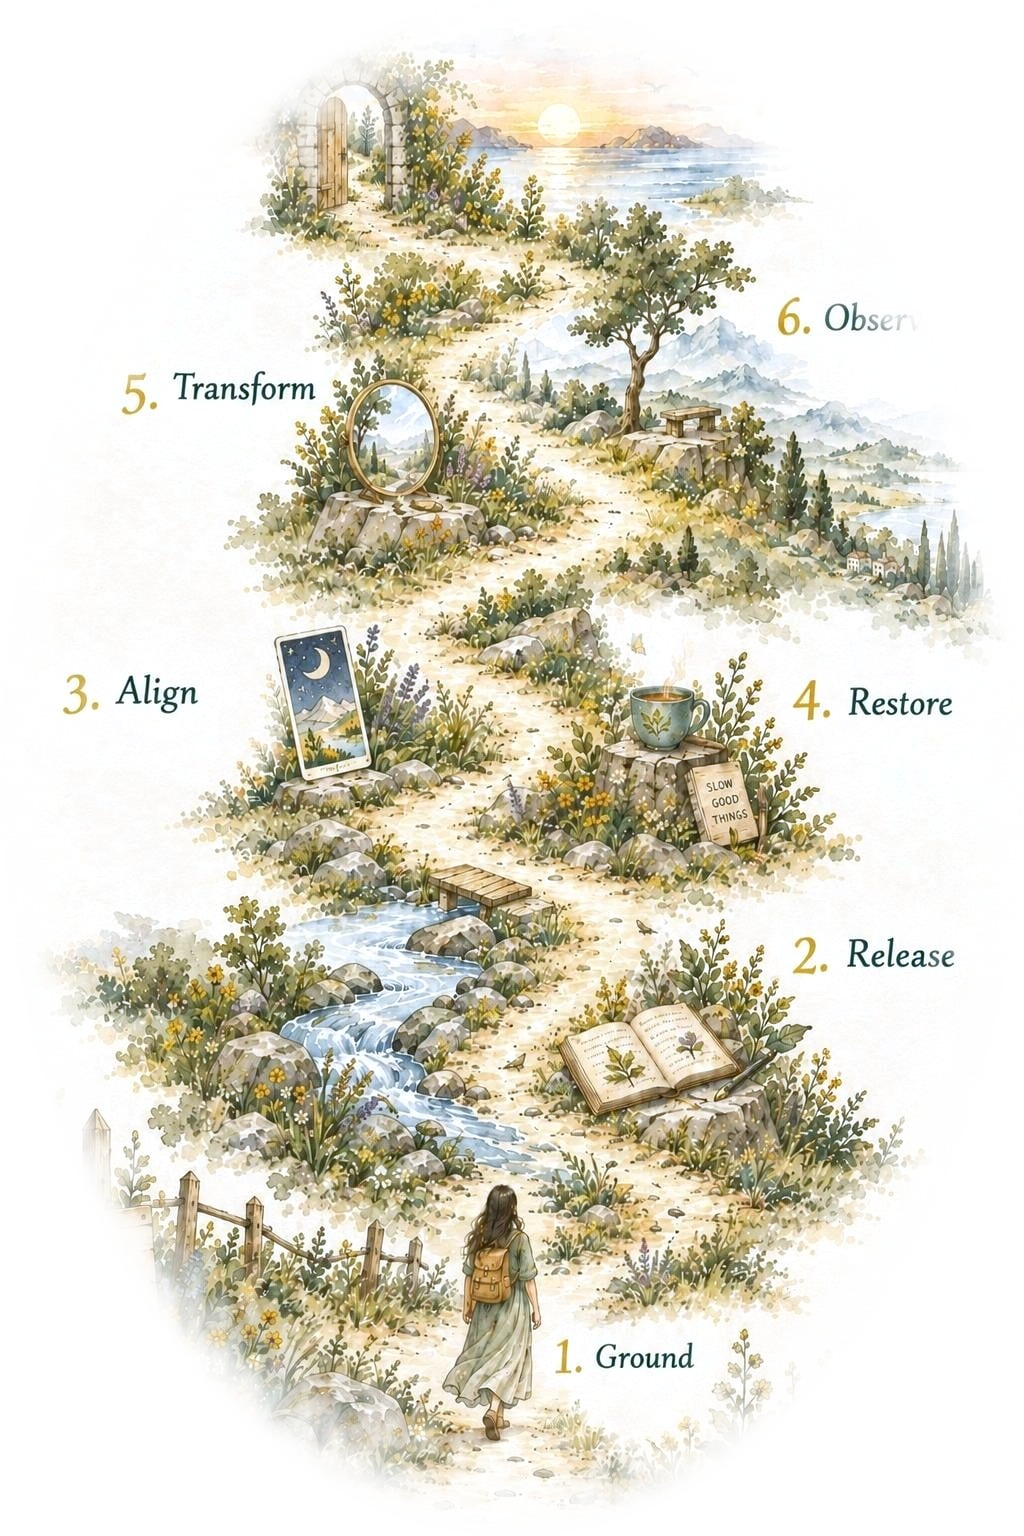
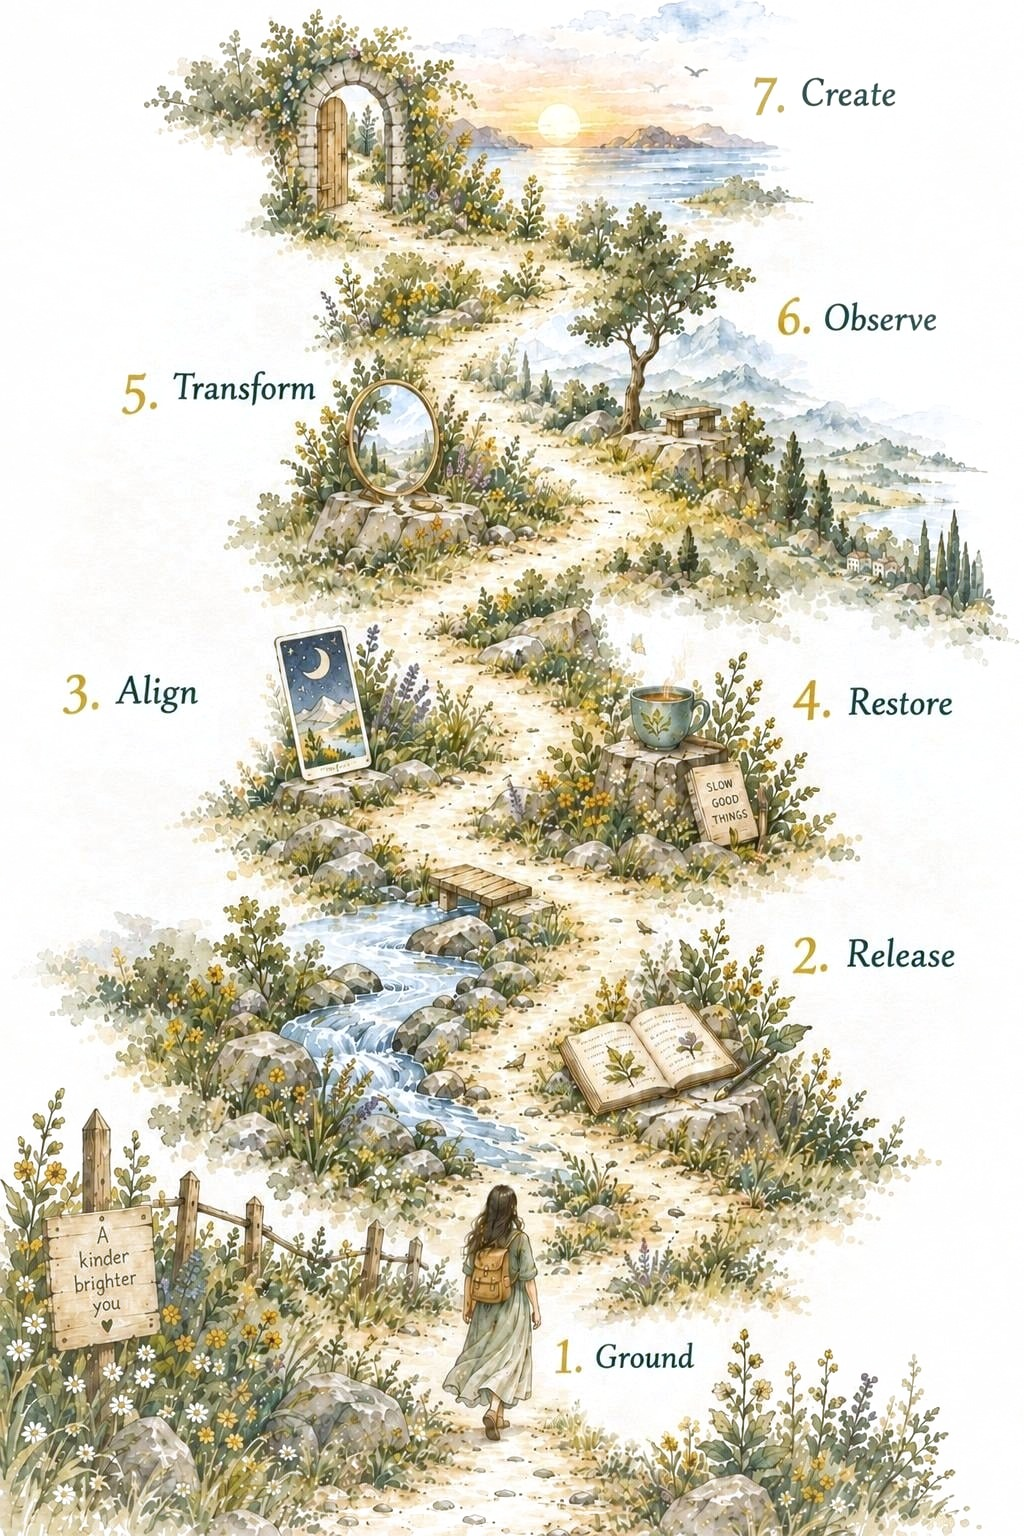
Revert gatherings illustration sizing; fix Observe/Create labels fading on the path artwork
Reverted the align-items/aspect-ratio/stretch/margin experiments on the gathering-table image back to the original, per user request.

The path illustration's edge-feathering was whiting out '6. Observe' and '7. Create', which sit near the corners where the elliptical fade always saturates regardless of the feather radius (confirmed: shrinking feather from 9% down to 3% had no effect, since the fade there comes from being outside the inscribed ellipse, not from feather width). Fixed at the source: the treatment now measures how far each original pixel's brightness is from the sampled paper tone and lets real ink/linework resist the white-fade in proportion to that, so genuine content survives even inside the feather zone while blank paper still dissolves fully. Regenerated the asset; restored feather to the original 9%.

diff --git a/index.html b/index.html
@@ -249,9 +249,9 @@
 
   <section class="section" style="position:relative">
     <div class="wrap">
-      <div class="split" style="align-items:stretch">
-        <div class="illus reveal" style="order:2;overflow:hidden;margin-left:clamp(1rem,4vw,2.5rem);min-height:340px">
-          <img src="assets/img/illus-gathering-table.jpg" alt="Watercolour illustration of friends gathered together around a shared table" loading="lazy" width="1000" height="606" style="width:100%;height:100%;object-fit:cover">
+      <div class="split" style="align-items:center">
+        <div class="illus reveal" style="order:2">
+          <img src="assets/img/illus-gathering-table.jpg" alt="Watercolour illustration of friends gathered together around a shared table" loading="lazy" width="1000" height="606">
         </div>
 
         <div class="reveal" data-d="1">
